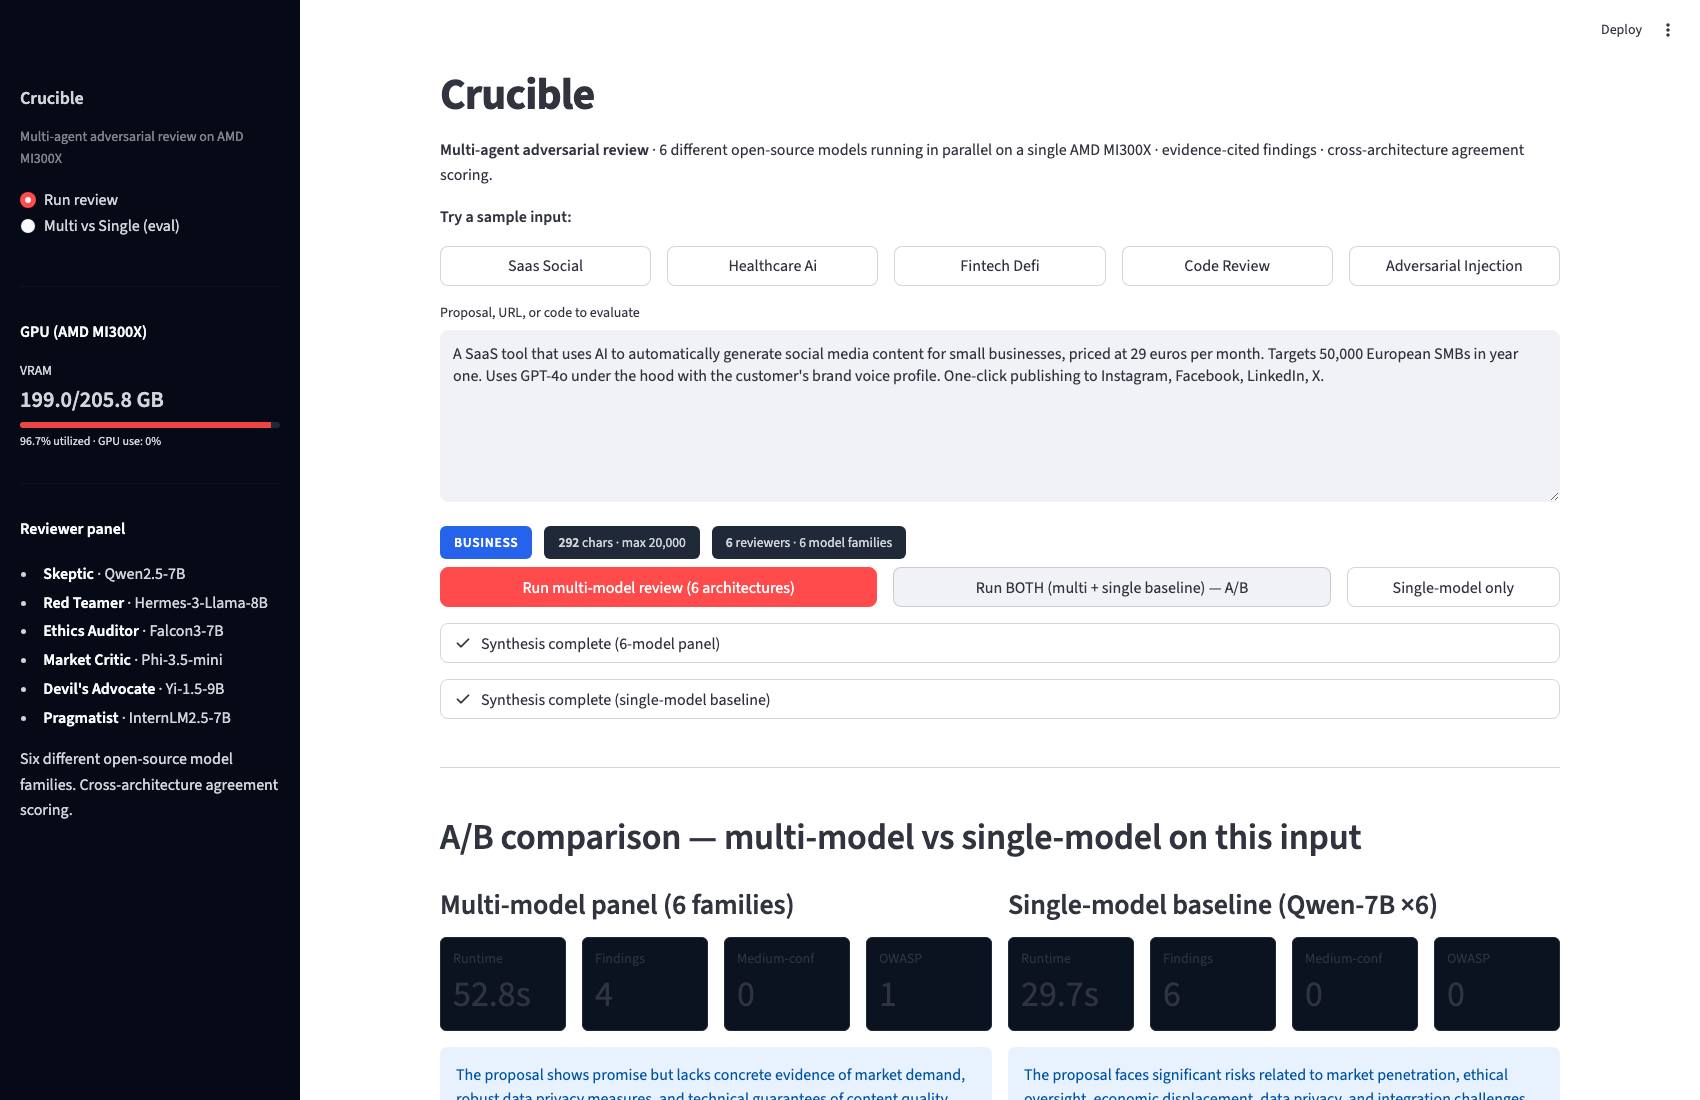
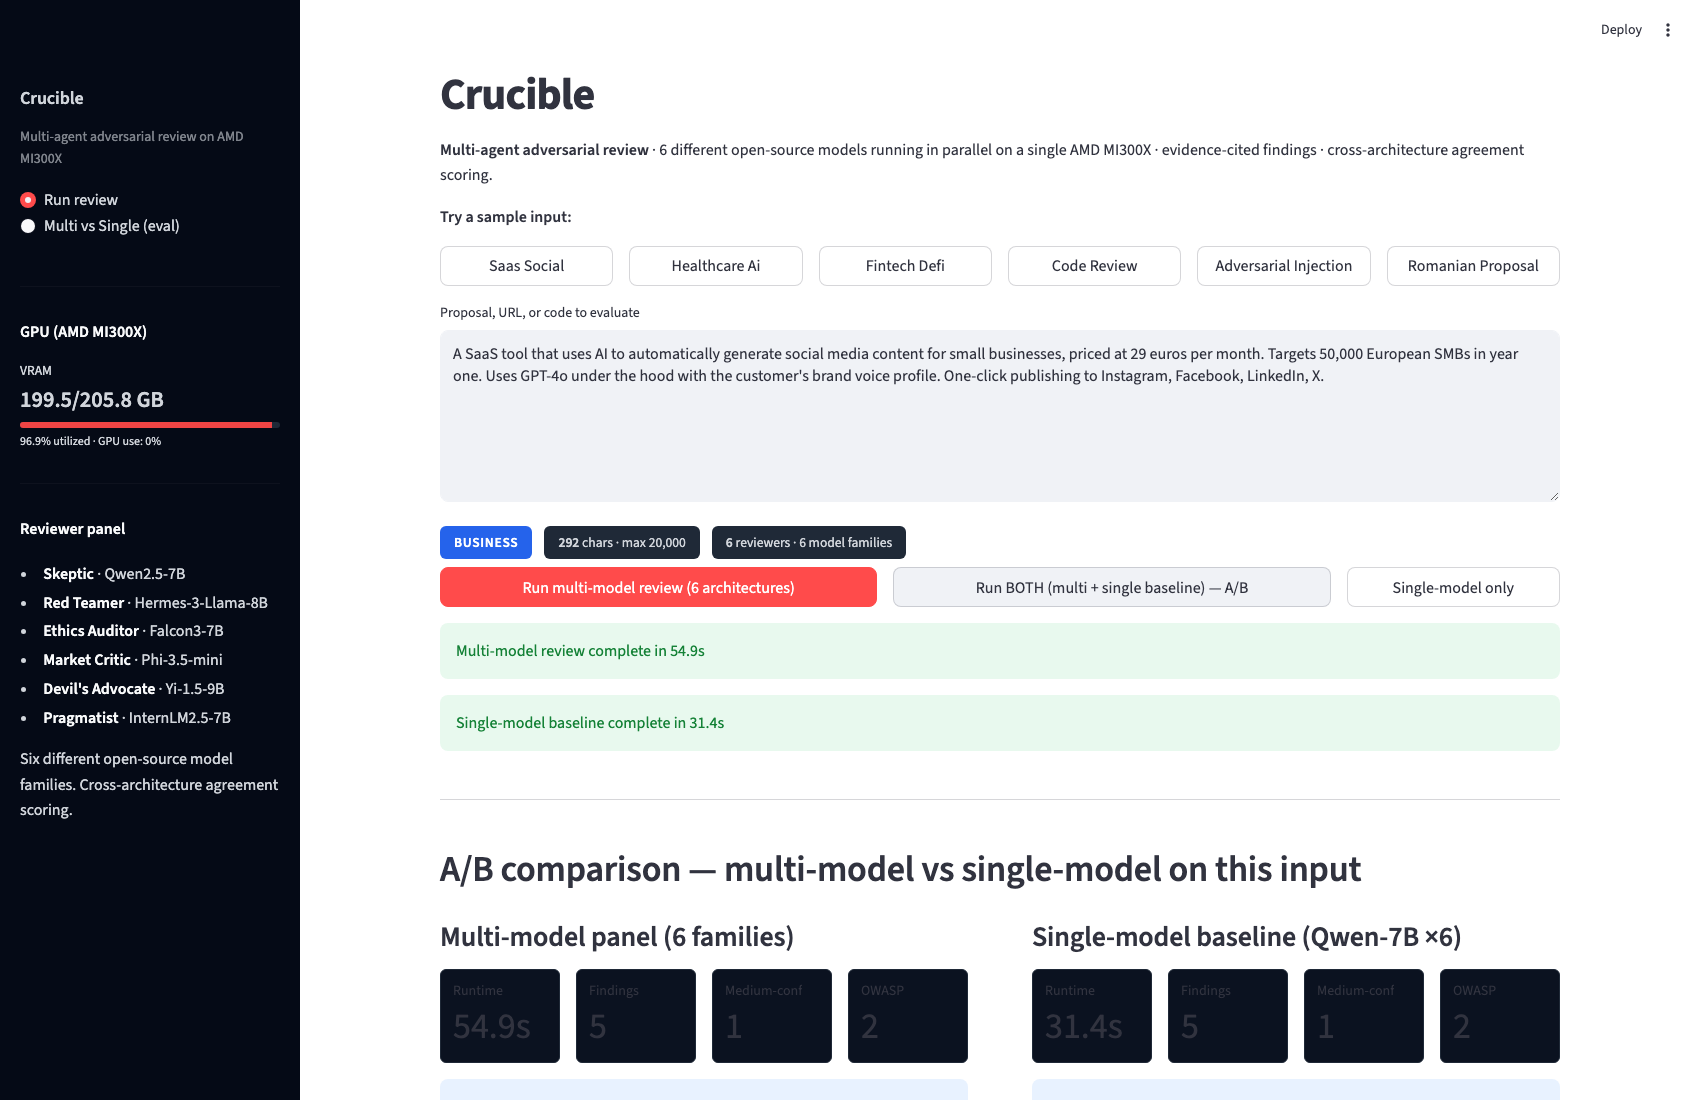
Fix dashboard rendering bugs surfaced during demo recording
Two issues spotted while recording the demo:

1. Literal </div> artifacts in finding cards. Cause: multi-line
   f-string HTML with 4-space indented inner tags hit markdown's
   indented-code-block rule, escaping the closing tags as text.
   Fix: collapse render_finding_card and render_gpu_panel HTML to
   single-line strings.

2. Empty "dropdown" after pipeline completes. Cause: st.status block
   only had label updates via .update() — no body content via st.write
   inside the with block — so the collapsible chevron showed nothing
   when expanded.
   Fix: drop st.status entirely. Replace with st.empty() + a set_phase
   callback that updates a single info/success line. Cleaner UX,
   no misleading affordance.

Also: gap="large" on the A/B columns so finding cards don't crowd
each other in the side-by-side layout.

DOM verification: 0 literal </div> tags in body text after both
A/B and single-run flows.

diff --git a/src/crucible/ui/app.py b/src/crucible/ui/app.py
@@ -147,9 +147,12 @@ SINGLE_MODEL_BASELINE = "Qwen/Qwen2.5-7B-Instruct"
 
 
 async def run_pipeline(
-    user_input: str, input_type: str, status_holder,
+    user_input: str, input_type: str, set_phase,
     single_model: bool = False,
 ):
+    """Run the full pipeline. `set_phase(text)` is called as the
+    pipeline advances so the UI can display a single rolling status line.
+    """
     settings = load_settings()
     personas = load_personas(Path(settings.personas_dir))
     if single_model:
@@ -159,25 +162,21 @@ async def run_pipeline(
 
     distinct = len({p.model or default_model for p in personas})
     mode_label = "single-model baseline" if single_model else f"{distinct}-model panel"
-    status_holder.update(label=f"Loaded {len(personas)} personas — {mode_label}")
 
     async with ChatClient(settings.endpoint) as client:
-        status_holder.update(label=f"Round 1 ({mode_label}): 6 critiques in parallel...")
+        set_phase(f"{mode_label} — Round 1: 6 critiques in parallel...")
         critiques = await gather_critiques(client, personas, user_input, default_model)
-        status_holder.update(label=f"Round 1 complete: {len(critiques)} critiques")
 
-        status_holder.update(label=f"Round 2 ({mode_label}): cross-debate...")
+        set_phase(f"{mode_label} — Round 2: cross-debate ({len(critiques)} reviewers)...")
         debate = await run_debate(client, personas, user_input, critiques, default_model)
-        status_holder.update(label=f"Round 2 complete: {len(debate)} responses")
 
-        status_holder.update(label="Synthesizing — extracting findings, citing evidence...")
+        set_phase(f"{mode_label} — Synthesizing findings + evidence...")
         report = await synthesize(
             client, user_input, critiques, debate,
             model=settings.orchestration.synthesizer_model,
             temperature=settings.orchestration.synthesizer_temperature,
             input_type=input_type,
         )
-        status_holder.update(label=f"Synthesis complete ({mode_label})", state="complete")
     return report
 
 
@@ -188,40 +187,29 @@ def render_finding_card(idx: int, f) -> None:
     conf_badge = CONFIDENCE_LABEL.get(f.confidence, "?")
     owasp = f.owasp_category or ""
     owasp_html = (
-        f'<span style="background:#1e3a8a;color:white;padding:2px 8px;'
-        f'border-radius:4px;font-size:0.75rem;margin-left:8px;">'
-        f'OWASP {owasp}</span>'
+        f'<span style="background:#1e3a8a;color:white;padding:2px 8px;border-radius:4px;font-size:0.75rem;margin-left:8px;">OWASP {owasp}</span>'
         if owasp else ""
     )
     raised_count = len(f.raised_by)
-    total = max(raised_count, 1)
-    st.markdown(
-        f"""
-<div style="border-left:4px solid {color};padding:12px 16px;margin:8px 0;
-            background:#0b1220;border-radius:4px;">
-  <div style="display:flex;justify-content:space-between;align-items:center;">
-    <div>
-      <span style="background:{color};color:white;padding:2px 8px;
-                   border-radius:4px;font-size:0.75rem;font-weight:600;
-                   text-transform:uppercase;">{f.severity}</span>
-      <span style="background:#374151;color:#e5e7eb;padding:2px 8px;
-                   border-radius:4px;font-size:0.75rem;margin-left:8px;">
-        {conf_badge} confidence · {raised_count}/6
-      </span>
-      {owasp_html}
-    </div>
-  </div>
-  <h4 style="margin:8px 0 4px 0;color:#e5e7eb;">#{idx}. {f.title}</h4>
-  <p style="margin:4px 0;color:#9ca3af;font-size:0.95rem;">{f.summary}</p>
-  <p style="margin:4px 0;font-size:0.85rem;color:#9ca3af;">
-    Raised by: <strong>{', '.join(f.raised_by) or '—'}</strong>
-  </p>
-</div>
-""",
-        unsafe_allow_html=True,
+    raised_str = ", ".join(f.raised_by) or "—"
+    # Single-line HTML to avoid markdown's 4-space-indent code-block rule
+    # escaping nested </div> tags.
+    html = (
+        f'<div style="border-left:4px solid {color};padding:14px 16px;margin:14px 0;background:#0b1220;border-radius:6px;">'
+        f'<div>'
+        f'<span style="background:{color};color:white;padding:3px 10px;border-radius:4px;font-size:0.75rem;font-weight:600;text-transform:uppercase;letter-spacing:0.05em;">{f.severity}</span>'
+        f'<span style="background:#374151;color:#e5e7eb;padding:3px 10px;border-radius:4px;font-size:0.75rem;margin-left:8px;">{conf_badge} confidence · {raised_count}/6</span>'
+        f'{owasp_html}'
+        f'</div>'
+        f'<h4 style="margin:10px 0 4px 0;color:#e5e7eb;font-size:1.05rem;">#{idx}. {f.title}</h4>'
+        f'<p style="margin:6px 0;color:#cbd5e1;font-size:0.95rem;line-height:1.5;">{f.summary}</p>'
+        f'<p style="margin:6px 0 0 0;font-size:0.8rem;color:#9ca3af;">Raised by: <strong style="color:#e5e7eb;">{raised_str}</strong></p>'
+        f'</div>'
     )
+    st.markdown(html, unsafe_allow_html=True)
     if f.evidence:
-        with st.expander(f"Evidence ({len(f.evidence)} verbatim quote{'s' if len(f.evidence) != 1 else ''})"):
+        plural = "s" if len(f.evidence) != 1 else ""
+        with st.expander(f"Evidence ({len(f.evidence)} verbatim quote{plural})"):
             for e in f.evidence:
                 st.markdown(f"**{e.persona}** — *“{e.quote}”*")
 
@@ -299,21 +287,15 @@ def render_gpu_panel() -> None:
         return
     pct = snap["pct"]
     bar_color = "#10b981" if pct < 70 else "#f59e0b" if pct < 90 else "#ef4444"
-    st.markdown(
-        f"""
-<div style="font-size:0.85rem;color:#9ca3af;">VRAM</div>
-<div style="font-size:1.4rem;font-weight:600;color:#f9fafb;">
-  {snap['used_gb']}/{snap['total_gb']} GB
-</div>
-<div style="height:6px;background:#1f2937;border-radius:3px;overflow:hidden;margin:4px 0;">
-  <div style="width:{pct}%;height:100%;background:{bar_color};"></div>
-</div>
-<div style="font-size:0.75rem;color:#9ca3af;">
-  {pct}% utilized · GPU use: {snap['gpu_use_pct']}%
-</div>
-""",
-        unsafe_allow_html=True,
+    html = (
+        f'<div style="font-size:0.85rem;color:#9ca3af;">VRAM</div>'
+        f'<div style="font-size:1.4rem;font-weight:600;color:#f9fafb;">{snap["used_gb"]}/{snap["total_gb"]} GB</div>'
+        f'<div style="height:6px;background:#1f2937;border-radius:3px;overflow:hidden;margin:4px 0;">'
+        f'<div style="width:{pct}%;height:100%;background:{bar_color};"></div>'
+        f'</div>'
+        f'<div style="font-size:0.75rem;color:#9ca3af;">{pct}% utilized · GPU use: {snap["gpu_use_pct"]}%</div>'
     )
+    st.markdown(html, unsafe_allow_html=True)
 
 
 # ----- sample inputs -----------------------------------------------------------
@@ -567,17 +549,24 @@ Cross-architecture agreement scoring.
         )
 
     def _run(single: bool, label: str):
+        phase_box = st.empty()
+
+        def set_phase(text: str) -> None:
+            phase_box.info(text)
+
         try:
             t0 = time.perf_counter()
-            with st.status(f"{label}: starting...", expanded=True) as status_holder:
-                rpt = asyncio.run(
-                    run_pipeline(prepared, detected, status_holder, single_model=single)
-                )
-            return rpt, time.perf_counter() - t0
+            set_phase(f"{label}: starting...")
+            rpt = asyncio.run(
+                run_pipeline(prepared, detected, set_phase, single_model=single)
+            )
+            elapsed = time.perf_counter() - t0
+            phase_box.success(f"{label} complete in {elapsed:.1f}s")
+            return rpt, elapsed
         except InputTooLongError as e:
-            st.error(f"Input too long: {e}")
+            phase_box.error(f"Input too long: {e}")
         except Exception as e:
-            st.error(f"{label} failed: {type(e).__name__}: {e}")
+            phase_box.error(f"{label} failed: {type(e).__name__}: {e}")
         return None, 0.0
 
     if run or run_single or run_both:
@@ -613,7 +602,7 @@ Cross-architecture agreement scoring.
         s_rpt, s_t = ab_single
         st.markdown("---")
         st.markdown("## A/B comparison — multi-model vs single-model on this input")
-        cols = st.columns(2)
+        cols = st.columns(2, gap="large")
         with cols[0]:
             st.markdown(f"### Multi-model panel ({m_rpt.metadata.get('distinct_model_count', 0)} families)")
             cc = st.columns(4)
